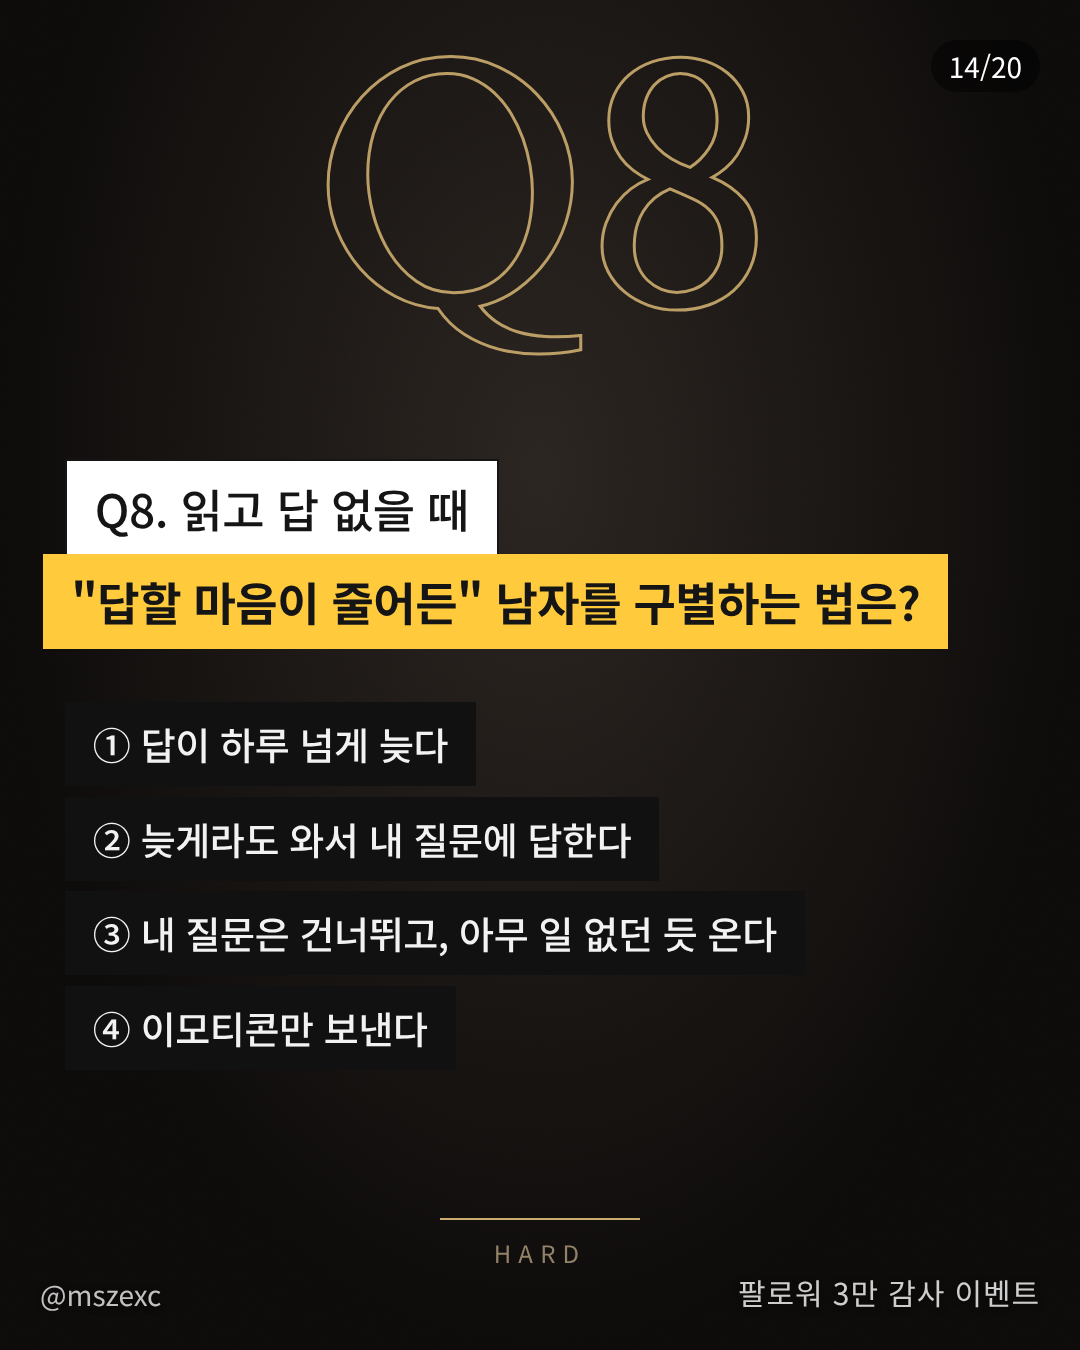
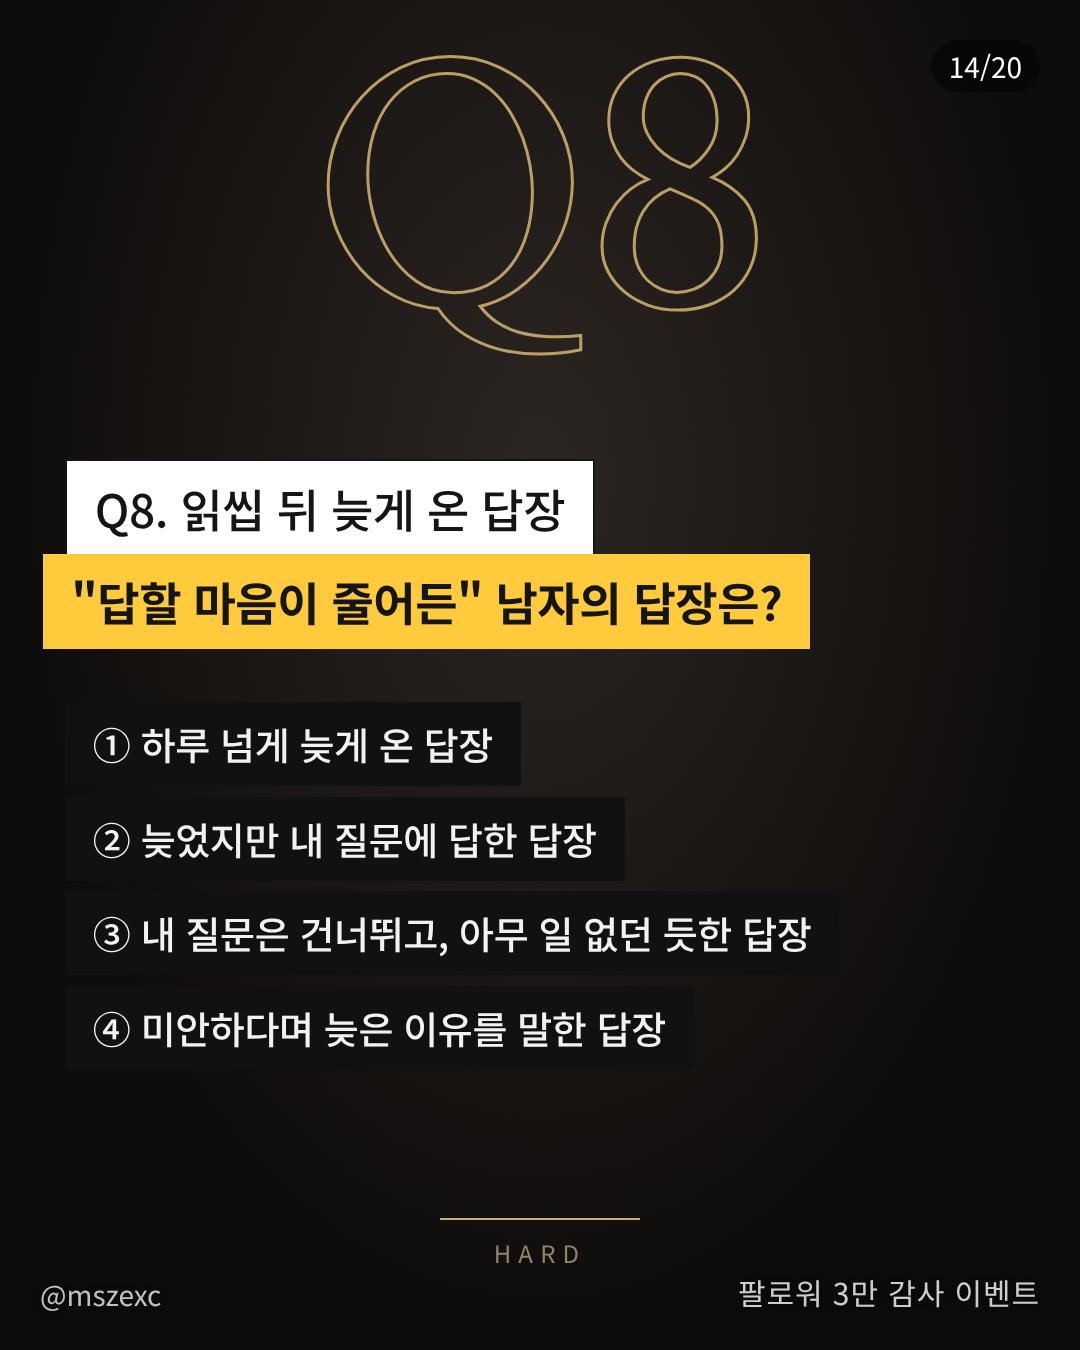
3만 이벤트 Q8 · Q9 상황 명시 (출제 오류 방지: 답이 하나만 나오게)
Claude-Session: https://claude.ai/code/session_01J9i5yL8MFhQ5W67Sx3nDW6

diff --git a/carousel/photo_story/cev.html b/carousel/photo_story/cev.html
@@ -36,8 +36,8 @@
 <section class="slide" id="s11"><img class="bg" src="pev/11.jpg" style="inset:0;width:100%;height:100%;object-fit:cover;filter:saturate(.85) brightness(.9)"><div class="shade"></div><div class="bx w" style="top:26%;left:6%;">Q5. 붙잡을 때</div><div class="bx g" style="top:33%;left:4%;">진심인 붙잡음은 무엇으로 증명될까?</div><div class="bx k" style="top:44%;left:6%;">①  눈물</div><div class="bx k" style="top:51%;left:6%;">②  긴 사과문</div><div class="bx k" style="top:58%;left:6%;">③  선물</div><div class="bx k" style="top:65%;left:6%;">④  달라진 다음 날</div><div class="num">11/20</div><div class="hd">@mszexc</div><div class="ser">팔로워 3만 감사 이벤트</div></section>
 <section class="slide" id="s12"><img class="bg" src="pevg/12.png" style="inset:0;width:100%;height:100%;object-fit:cover;filter:none"><div class="bx w" style="top:34%;left:6%;">Q6. 다른 여자</div><div class="bx g" style="top:41%;left:4%;">휴대폰보다 먼저 바뀌는 것이 아닌 것은?</div><div class="bx k" style="top:52%;left:6%;">①  칭찬과 선물이 갑자기 는다</div><div class="bx k" style="top:59%;left:6%;">②  잠금 화면을 바꾼다</div><div class="bx k" style="top:66%;left:6%;">③  내 일정을 자세히 묻는다</div><div class="bx k" style="top:73%;left:6%;">④  작은 질문에도 예민해진다</div><div class="num">12/20</div><div class="hd">@mszexc</div><div class="ser">팔로워 3만 감사 이벤트</div></section>
 <section class="slide" id="s13"><img class="bg" src="pev/13.jpg" style="inset:0;width:100%;height:100%;object-fit:cover;filter:saturate(.85) brightness(.9)"><div class="shade"></div><div class="bx w" style="top:26%;left:6%;">Q7. 헤어진 남자</div><div class="bx g" style="top:33%;left:4%;">다시 연락하기 전, 세 번째로 하는 행동은?</div><div class="bx k" style="top:44%;left:6%;">①  공통 친구에게 안부를 묻는다</div><div class="bx k" style="top:51%;left:6%;">②  스토리를 빠짐없이 본다</div><div class="bx k" style="top:58%;left:6%;">③  둘만 아는 걸 SNS에 올린다</div><div class="bx k" style="top:65%;left:6%;">④  술 마시고 전화한다</div><div class="num">13/20</div><div class="hd">@mszexc</div><div class="ser">팔로워 3만 감사 이벤트</div></section>
-<section class="slide" id="s14"><img class="bg" src="pevg/14.png" style="inset:0;width:100%;height:100%;object-fit:cover;filter:none"><div class="bx w" style="top:34%;left:6%;">Q8. 읽고 답 없을 때</div><div class="bx g" style="top:41%;left:4%;">&quot;답할 마음이 줄어든&quot; 남자를 구별하는 법은?</div><div class="bx k" style="top:52%;left:6%;">①  답이 하루 넘게 늦다</div><div class="bx k" style="top:59%;left:6%;">②  늦게라도 와서 내 질문에 답한다</div><div class="bx k" style="top:66%;left:6%;">③  내 질문은 건너뛰고, 아무 일 없던 듯 온다</div><div class="bx k" style="top:73%;left:6%;">④  이모티콘만 보낸다</div><div class="num">14/20</div><div class="hd">@mszexc</div><div class="ser">팔로워 3만 감사 이벤트</div></section>
-<section class="slide" id="s15"><img class="bg" src="pev/15.jpg" style="inset:0;width:100%;height:100%;object-fit:cover;filter:saturate(.85) brightness(.9)"><div class="shade"></div><div class="bx w" style="top:26%;left:6%;">Q9. 끝낼 때</div><div class="bx g" style="top:33%;left:4%;">마음 정리를 끝낸 남자의 진짜 신호는?</div><div class="bx k" style="top:44%;left:6%;">①  화를 자주 낸다</div><div class="bx k" style="top:51%;left:6%;">②  연락이 갑자기 끊긴다</div><div class="bx k" style="top:58%;left:6%;">③  갑자기 조용하고 친절해진다</div><div class="bx k" style="top:65%;left:6%;">④  먼저 &quot;헤어지자&quot;고 한다</div><div class="num">15/20</div><div class="hd">@mszexc</div><div class="ser">팔로워 3만 감사 이벤트</div></section>
+<section class="slide" id="s14"><img class="bg" src="pevg/14.png" style="inset:0;width:100%;height:100%;object-fit:cover;filter:none"><div class="bx w" style="top:34%;left:6%;">Q8. 읽씹 뒤 늦게 온 답장</div><div class="bx g" style="top:41%;left:4%;">&quot;답할 마음이 줄어든&quot; 남자의 답장은?</div><div class="bx k" style="top:52%;left:6%;">①  하루 넘게 늦게 온 답장</div><div class="bx k" style="top:59%;left:6%;">②  늦었지만 내 질문에 답한 답장</div><div class="bx k" style="top:66%;left:6%;">③  내 질문은 건너뛰고, 아무 일 없던 듯한 답장</div><div class="bx k" style="top:73%;left:6%;">④  미안하다며 늦은 이유를 말한 답장</div><div class="num">14/20</div><div class="hd">@mszexc</div><div class="ser">팔로워 3만 감사 이벤트</div></section>
+<section class="slide" id="s15"><img class="bg" src="pev/15.jpg" style="inset:0;width:100%;height:100%;object-fit:cover;filter:saturate(.85) brightness(.9)"><div class="shade"></div><div class="bx w" style="top:26%;left:6%;">Q9. 관계를 끝낼 때</div><div class="bx g" style="top:33%;left:4%;">마음 정리를 끝낸 남자의 진짜 신호는?</div><div class="bx k" style="top:44%;left:6%;">①  화를 자주 낸다</div><div class="bx k" style="top:51%;left:6%;">②  전보다 더 자주 연락한다</div><div class="bx k" style="top:58%;left:6%;">③  갑자기 조용하고 친절해진다</div><div class="bx k" style="top:65%;left:6%;">④  먼저 &quot;헤어지자&quot;고 한다</div><div class="num">15/20</div><div class="hd">@mszexc</div><div class="ser">팔로워 3만 감사 이벤트</div></section>
 <section class="slide" id="s16"><img class="bg" src="pevg/16.png" style="inset:0;width:100%;height:100%;object-fit:cover;filter:none"><div class="bx w" style="top:26%;left:6%;">Q10. 읽씹하던 남자가 다시 연락할 때</div><div class="bx g" style="top:33%;left:4%;">맞는 것을 모두 고르면?</div><div class="bx k" style="top:44.0%;left:6%;">ㄱ. 핑계(링크 · 사진)가 생기면 연락한다</div><div class="bx k" style="top:50.5%;left:6%;">ㄴ. 내가 연락을 더 자주 할수록 빨리 돌아온다</div><div class="bx k" style="top:57.0%;left:6%;">ㄷ. 밤에 온 &quot;자?&quot;는 마음보다 외로움일 때가 많다</div><div class="bx k" style="top:63.5%;left:6%;">ㄹ. 다시 온 연락이 나에게 질문을 하면 진심이다</div><div class="bx w" style="top:72.0%;left:6%;">① ㄱ, ㄴ　　　② ㄱ, ㄷ, ㄹ</div><div class="bx w" style="top:78.5%;left:6%;">③ ㄴ, ㄷ, ㄹ　　④ ㄱ, ㄴ, ㄷ, ㄹ</div><div class="num">16/20</div><div class="hd">@mszexc</div><div class="ser">팔로워 3만 감사 이벤트</div></section>
 <section class="slide" id="s17"><img class="bg" src="pev/17.jpg" style="inset:0;width:100%;height:100%;object-fit:cover;filter:saturate(.85) brightness(.9)"><div class="shade"></div><div class="bx w" style="top:28%;left:6%;">보너스 · 주관식 (선택)</div><div class="bx q" style="top:36%;right:6%;">&quot;요즘 좀 바빠.&quot;</div><div class="bx g" style="top:47%;left:4%;">남자 입장에서 한 줄로 번역해 보세요.</div><div class="bx k" style="top:57%;right:6%;">(1등은 만점자 중 이 답이 가장 좋은 분께 드려요.)</div><div class="num">17/20</div><div class="hd">@mszexc</div><div class="ser">팔로워 3만 감사 이벤트</div></section>
 <section class="slide" id="s18"><img class="bg" src="pevg/18.png" style="inset:0;width:100%;height:100%;object-fit:cover;filter:none"><div class="shade"></div><div class="bx w" style="top:34%;left:6%;">정답은 DM으로 보내주세요.</div><div class="bx g" style="top:43%;left:4%;">번호 10개를 순서대로 + 주관식 한 줄</div><div class="bx k" style="top:53%;right:6%;">(댓글에 정답을 쓰면 다른 분들께 보여서 제외돼요.)</div><div class="num">18/20</div><div class="hd">@mszexc</div><div class="ser">팔로워 3만 감사 이벤트</div></section>

diff --git a/carousel/photo_story/event30k.py b/carousel/photo_story/event30k.py
@@ -28,8 +28,8 @@ QS = [  # (분류, 질문, 보기) — 11/26 3차 개정: Q1~5 쉬움(캐러셀)
  ('붙잡을 때', '진심인 붙잡음은 무엇으로 증명될까?', ['눈물', '긴 사과문', '선물', '달라진 다음 날']),
  ('다른 여자', '휴대폰보다 먼저 바뀌는 것이 아닌 것은?', ['칭찬과 선물이 갑자기 는다', '잠금 화면을 바꾼다', '내 일정을 자세히 묻는다', '작은 질문에도 예민해진다']),
  ('헤어진 남자', '다시 연락하기 전, 세 번째로 하는 행동은?', ['공통 친구에게 안부를 묻는다', '스토리를 빠짐없이 본다', '둘만 아는 걸 SNS에 올린다', '술 마시고 전화한다']),
- ('읽고 답 없을 때', '"답할 마음이 줄어든" 남자를 구별하는 법은?', ['답이 하루 넘게 늦다', '늦게라도 와서 내 질문에 답한다', '내 질문은 건너뛰고, 아무 일 없던 듯 온다', '이모티콘만 보낸다']),
- ('끝낼 때', '마음 정리를 끝낸 남자의 진짜 신호는?', ['화를 자주 낸다', '연락이 갑자기 끊긴다', '갑자기 조용하고 친절해진다', '먼저 "헤어지자"고 한다']),
+ ('읽씹 뒤 늦게 온 답장', '"답할 마음이 줄어든" 남자의 답장은?', ['하루 넘게 늦게 온 답장', '늦었지만 내 질문에 답한 답장', '내 질문은 건너뛰고, 아무 일 없던 듯한 답장', '미안하다며 늦은 이유를 말한 답장']),
+ ('관계를 끝낼 때', '마음 정리를 끝낸 남자의 진짜 신호는?', ['화를 자주 낸다', '전보다 더 자주 연락한다', '갑자기 조용하고 친절해진다', '먼저 "헤어지자"고 한다']),
  ('다시 연락', '읽씹하던 남자에 대해 맞는 것을 모두 고르면?', []),
 ]
 SLIDES = [
